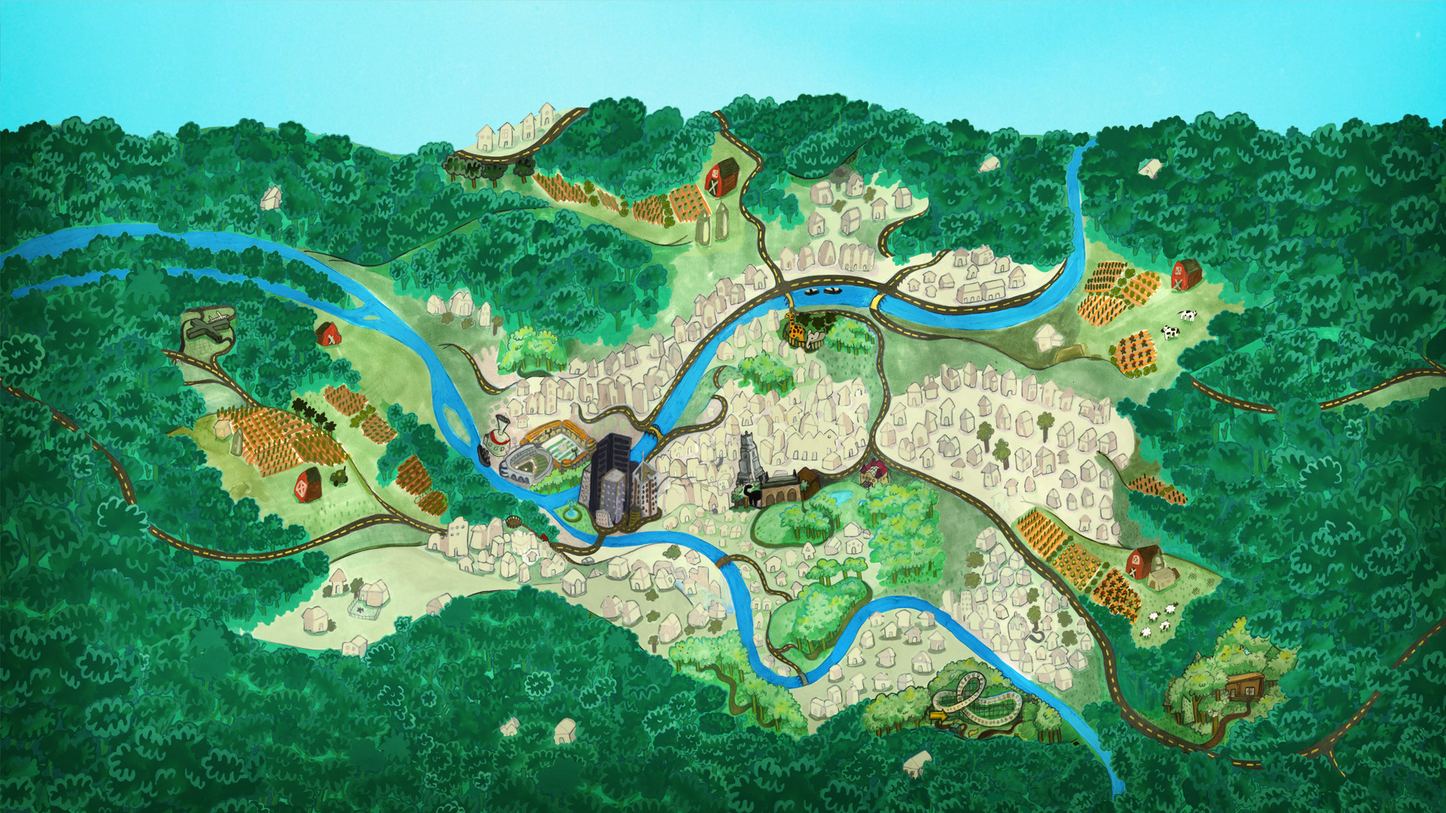
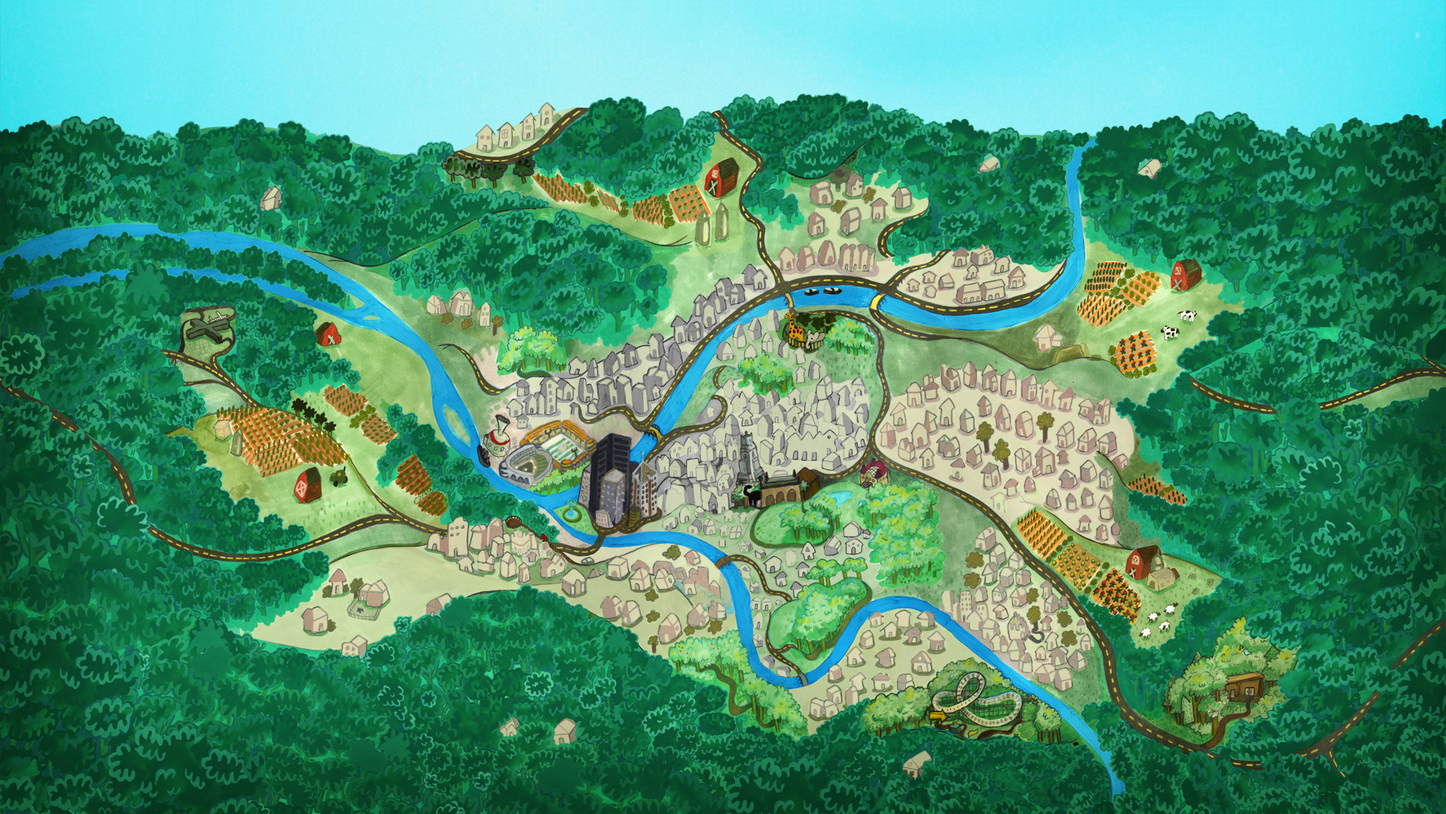
Maybe fullscreen on linux and added basic timeout behavior for sparkle

diff --git a/NatureIsEverywhere/map.html b/NatureIsEverywhere/map.html
@@ -45,7 +45,7 @@
         }
       }
 
-      this.currentTimeout;
+      this.sparkleTimeout = null;
 
 
       //////////////////////// FUNCTIONS ////////////////////////
@@ -66,22 +66,27 @@
           console.log($(this).attr('id'));
           $(this).toggleClass('unselected');
           $(this).toggleClass('selected');
+          delaySparkle();
         });
-        //$(".category").click((obj) => {
+      }
 
-          //  console.log($(obj).attr("id"));
-           // console.log($(this).attr("id"));
-           // console.log(this.id);
+      function delaySparkle() {
+        if (sparkleTimeout !== null) {
+          clearTimeout(sparkleTimeout);
+          sparkleTimeout = null;
+        }
 
-          /*clearTimeout(this.currentTimeout);
-          
-          if (target.hasClass('selected')) {
-            $('#caption').html(this.categories[target.attr('id')].displayString);
-            this.currentTimeout = window.setTimeout(() => {
-              $('#caption').html("");
-            }, 1000);
-          } */
-        //});
+        $(".category").each(function(index, obj) {
+          $(obj).removeClass('sparkling');
+        });
+        sparkleTimeout = setTimeout(function() {
+          $(".category").each(function(index, obj) {
+            $(obj).addClass('sparkling');
+            $(obj).addClass('unselected');
+            $(obj).removeClass('selected');
+          });
+        }, 60000);
+
       }
 
       function renderButton() {
@@ -153,44 +158,54 @@
       }
 
       #Rivers {
+        animation-delay: 0.2s;
         animation-duration: 1.5s;
       }
 
       #Forests {
-        animation-duration: 2s;
+        animation-delay: 0.4s;
+        animation-duration: 1.5s;
       }
 
       #Suburbs {
-        animation-duration: .5s;
+        animation-delay: 0.6s;
+        animation-duration: 1.5s;
       }
 
       #City {
+        animation-delay: 0.8s;
         animation-duration: 1.5s;
       }
 
       #Parks {
-        animation-duration: 0.7s;
+        animation-delay: 1s;
+        animation-duration: 1.5s;
       }
 
       #Farmland {
-        animation-duration: 2s;
+        animation-delay: 1.2s;
+        animation-duration: 1.5s;
       }
 
       #POIs {
-        animation-duration: 0.5s;
+        animation-delay: 1.4s;
+        animation-duration: 1.5s;
       }
 
-
       .unselected {
-        animation-name: sparkle;
-        animation-duration: 4s;
-        animation-timing-function: ease-in-out;
-        animation-iteration-count: infinite;
-        animation-direction: alternate;
+        opacity: 0.5;
       }
 
       .selected {
         opacity: 0 !important;
+      }
+
+      .sparkling {
+        animation-name: sparkle;
+        animation-duration: 1.5s;
+        animation-timing-function: ease-in-out;
+        animation-iteration-count: infinite;
+        animation-direction: alternate;
       }
 
     </style>
@@ -216,7 +231,7 @@
       opacity: 0.5;
     }
   </style>
-  <g id="Forests" class="category unselected">
+  <g id="Forests" class="category unselected sparkling">
     <g>
       <path d="M0,500c0-47.3,0-94.7,0-142c1.6-3.2,3.8-6.3,4.8-9.8c2.1-7.3,5.9-9.8,13.2-7.9c4.9-5.6,7.5-5,10.4,1.8
         c2.6,0.4,5.2,0.2,6.9,1.3c1.7,1.1,2.6,3.5,4.1,5.6c3.8-0.6,3.2-7.1,8.9-6.3c2.5,0.3,5.1-6.1,8.5-2.3c3-1.2,6.7-3.5,7.4-2.8
@@ -538,7 +553,7 @@
         C512.6,587.8,516.3,583,530.2,581.2z"/>
     </g>
   </g>
-  <g id="Parks" class="category unselected">
+  <g id="Parks" class="category unselected sparkling">
     <g>
       <path d="M1121.2,421.9c1.1,0.9,2.2,1.9,3.3,2.8c4.5-2.8,9.5-1.7,12.8,2.7c10.4-0.9,12.9,1.3,15.7,12.4c7.7,1,8.6,3.6,8.5,11.2
         c-0.1,6.1-2.8,10.6-5.5,15.3c-0.9,1.6-2.5,4-4,4.1c-6.7,0.5-13.2,3.7-20.4,1c-3.9-1.5-8.4-1.6-12.1-4.4c-0.7-0.5-2.5,0.7-3.7,0.6
@@ -600,7 +615,7 @@
         c0.7,1.4,1.6,3.1,2.9,3.7c7.7,3.7,11.6,10.2,14.2,17.8c2.4,7.1,4.1,14.4,10,19.7C793.8,708.1,793.8,709.3,794.2,711z"/>
     </g>
   </g>
-  <g id="Rivers" class="category unselected">
+  <g id="Rivers" class="category unselected sparkling">
     <g>
       <path d="M0.1,338.8c10.1-1.1,18.1-6.8,25.6-12.6c8.2-6.3,17.6-9.2,27-12.4c25.3-8.7,51.6-11.2,78-13.2c11.3-0.9,22.5-2.9,33.7-3.1
         c13.6-0.3,27.2,0.7,40.9,1.3c1.4,0.1,3.7,1.4,4.1,2.6c1.4,4.9,5.4,6.1,9.3,7.2c3.8,1.1,7.7,2.1,11.7,2.2c4.1,0.1,8.3-0.7,12.5-1.2
@@ -703,7 +718,7 @@
         C248.7,357.2,248.7,357.1,248.7,357.1z"/>
     </g>
   </g>
-  <g id="Farmland" class="category unselected">
+  <g id="Farmland" class="category unselected sparkling">
     <g>
       <path d="M216.8,575c8.6-3.5,17.2-7,25.4-10.4c4,2.2,8.2,4.4,12.8,6.9c2-4.8,3.9-9.4,6.6-16c5.9-1.8,14-4.1,22-6.7
         c1.5-0.5,2.7-2.1,3.9-3.3c0.7-0.7,1-1.8,1.7-2.2c1.8-1,3.8-1.7,6.5-2.8c1.8,1.2,4.6,6.2,6.9,0.3c2.9-0.9,5.2-1.5,8-2.4
@@ -781,7 +796,7 @@
         C1514.4,632.7,1517.2,630.8,1520.4,628.8z"/>
     </g>
   </g>
-  <g id="City" class="category unselected">
+  <g id="City" class="category unselected sparkling">
     <g>
       <path d="M632.2,594.6c2.4-1.8,4.9-3.6,7.3-5.4c0.5,0.6,1,1.1,1.5,1.7c-0.7-14.3,8.5-19.2,20.8-22.9c-1.1-3.9-2.1-8.1-3.4-12.2
         c-1.7-4.9-0.1-7,5.1-6.2c5.6,0.9,10.9,2.5,13.1,8.4c0.5,1.4-0.1,3.5-0.7,5c-0.5,1.3-1.8,2.3-2.7,3.5c-2.4,3.2-4.3,5.9,0.4,9.4
@@ -861,7 +876,7 @@
         C1137.4,764.7,1136.9,765.1,1136.4,765.5z"/>
     </g>
   </g>
-  <g id="POIs" class="category unselected">
+  <g id="POIs" class="category unselected sparkling">
     <g>
       <path d="M297.7,404.7c1,0.2,1.9,0.6,2.9,0.7c10.8,1.1,13.2,3.5,12.9,14.4c-0.2,5.7-1.6,11.3-2.2,17.1c-0.2,2.5-0.2,5.3,0.6,7.6
         c1.4,3.9,1.4,7.4-1.1,10.8c-4.3,5.8-9.6,10.3-16.8,11.7c-14,2.6-15.4,5.8-14.6,18c-14.1-6-28.3-12.1-41.8-17.9
@@ -900,7 +915,7 @@
         c1.8-3.1,3.3-6.4,5.1-9.5c0.4-0.7,1-1.4,1.7-1.7c2.7-1.3,5.5-3,8.3-3.3C1651.6,817.2,1653.6,819.4,1655.7,820.8z"/>
     </g>
   </g>
-  <g id="Suburbs" class="category unselected">
+  <g id="Suburbs" class="category unselected sparkling">
     <g>
       <path d="M1545,219c-2.6,3.3-5.6,6.4-7.8,10.1c-0.9,1.6-0.2,4.2-0.2,6.3c-1.6,1.1-3.1,2.1-3.7,2.5c-7.7-3.2-14.7-6.1-22.4-9.4
         c5.6-4.8,10.8-9.3,15.9-13.8c1-0.9,1.9-1.9,3-2.6c3-2.1,7.2-1.1,9.7,1.7c1.4,1.5,3.6,2.2,5.5,3.2C1545,217.7,1545,218.4,1545,219z

diff --git a/NatureIsEverywhere/main.js b/NatureIsEverywhere/main.js
@@ -13,8 +13,9 @@ var mapWindow = null;
 
 // CREATE WINDOWS
 app.on('ready', () => {
-    mapWindow = new BrowserWindow({ width: 1920, height: 1080, resizable: false });
+    mapWindow = new BrowserWindow({ width: 1920, height: 1080, resizable: false, type:'toolbar', fullscreen: true, frame: false, 'auto-hide-menu-bar': true, });
     mapWindow.loadURL(`file://${__dirname}/map.html`);
+    mapWindow.setMenu(null);
 });
 
 //////////////////////// EVENTS ////////////////////////
